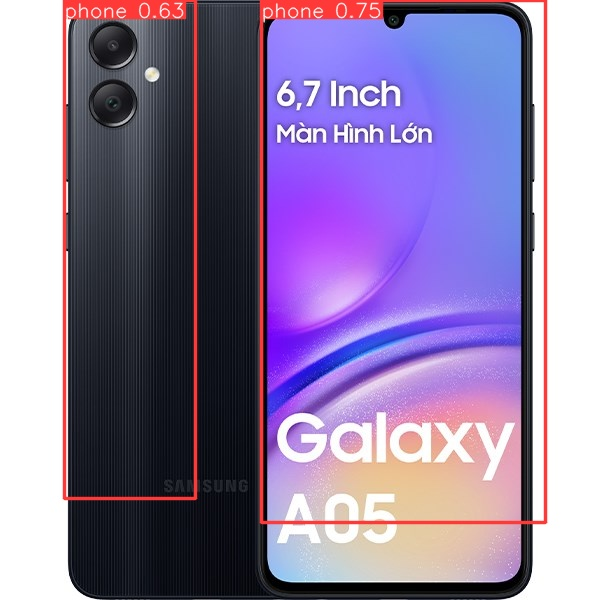
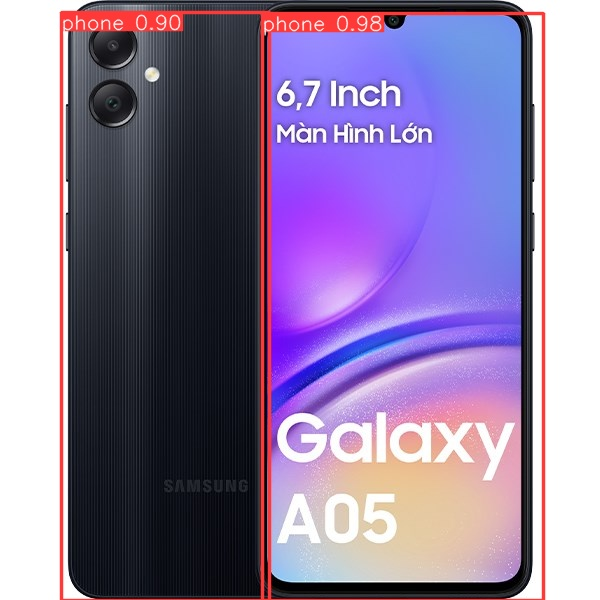
update model v2

Changed region(s): [[0.09, 0.0, 0.93, 1.0]]

diff --git a/app.py b/app.py
@@ -1,12 +1,12 @@
 from flask import Flask, request, jsonify, send_file
-from ultralytics import YOLOv10
+from ultralytics import YOLO
 from waitress import serve
 import os
 
 class App:
     def __init__(self):
         self.app = Flask(__name__)
-        self.model = YOLOv10("./phone_detect.pt")
+        self.model = YOLO("./phone_detectv2.pt")
         self.app.add_url_rule('/api', view_func=self.api, methods=['GET'])
         self.app.add_url_rule('/predict', view_func=self.predict, methods=['POST'])
         self.app.add_url_rule('/image', view_func=self.get_image_predict, methods=['GET'])
